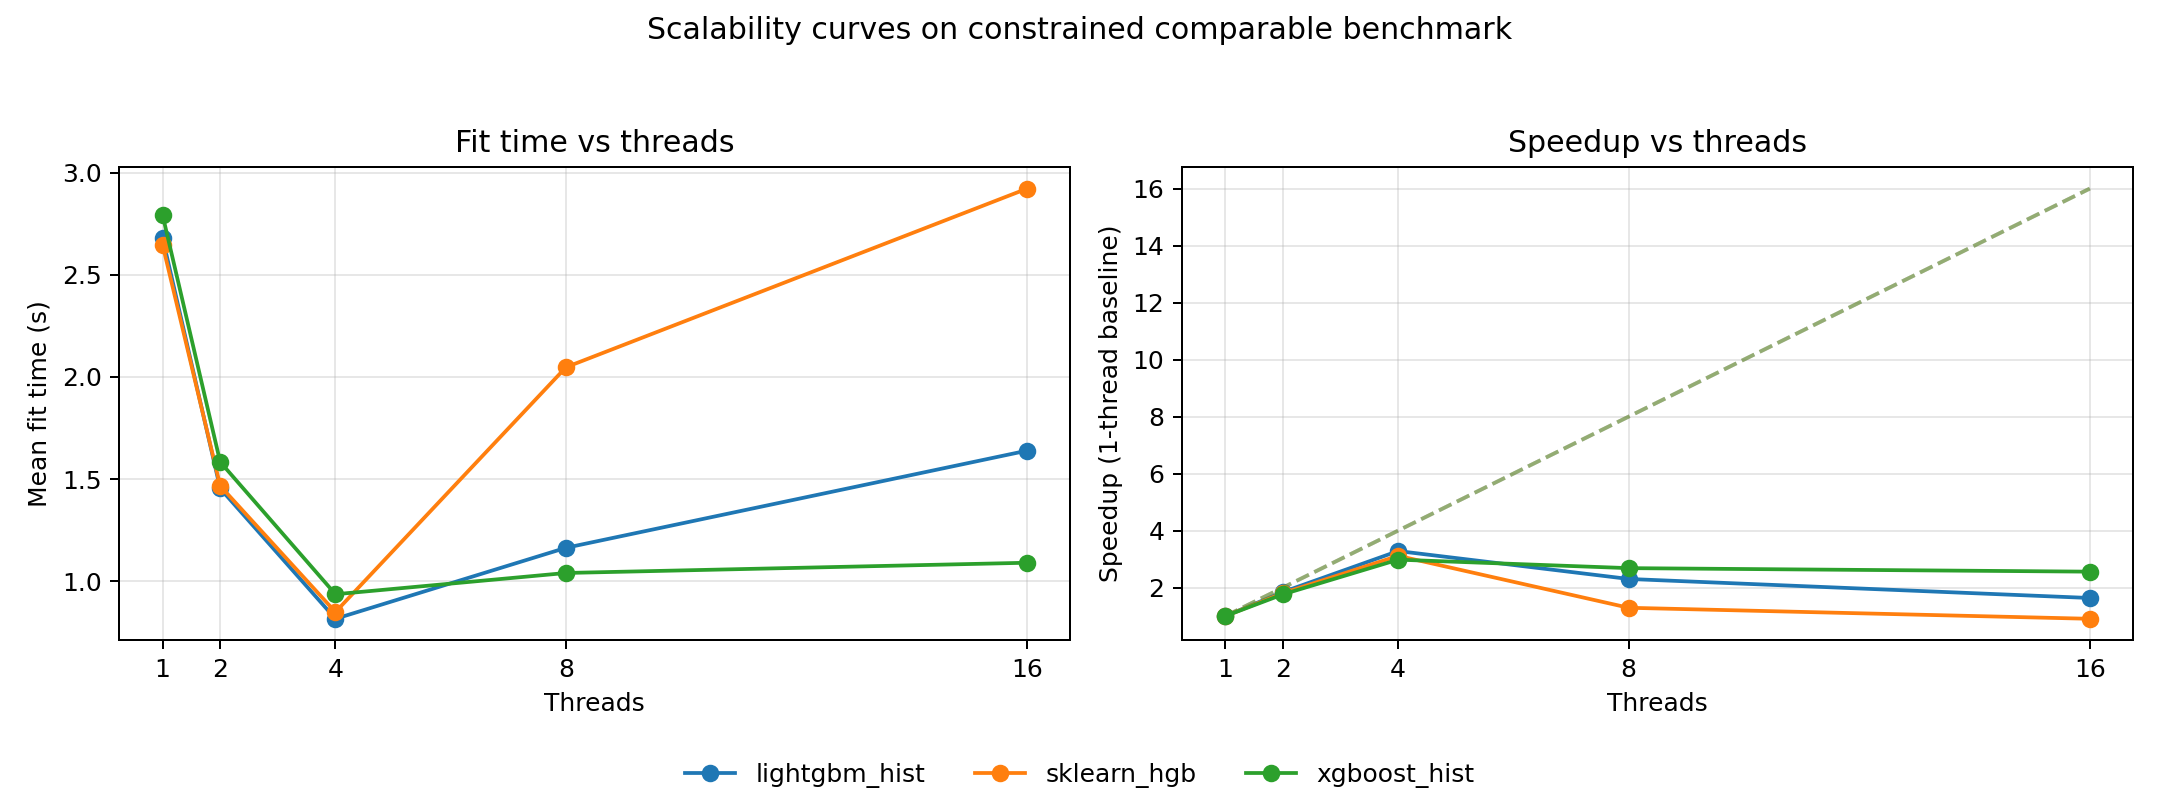
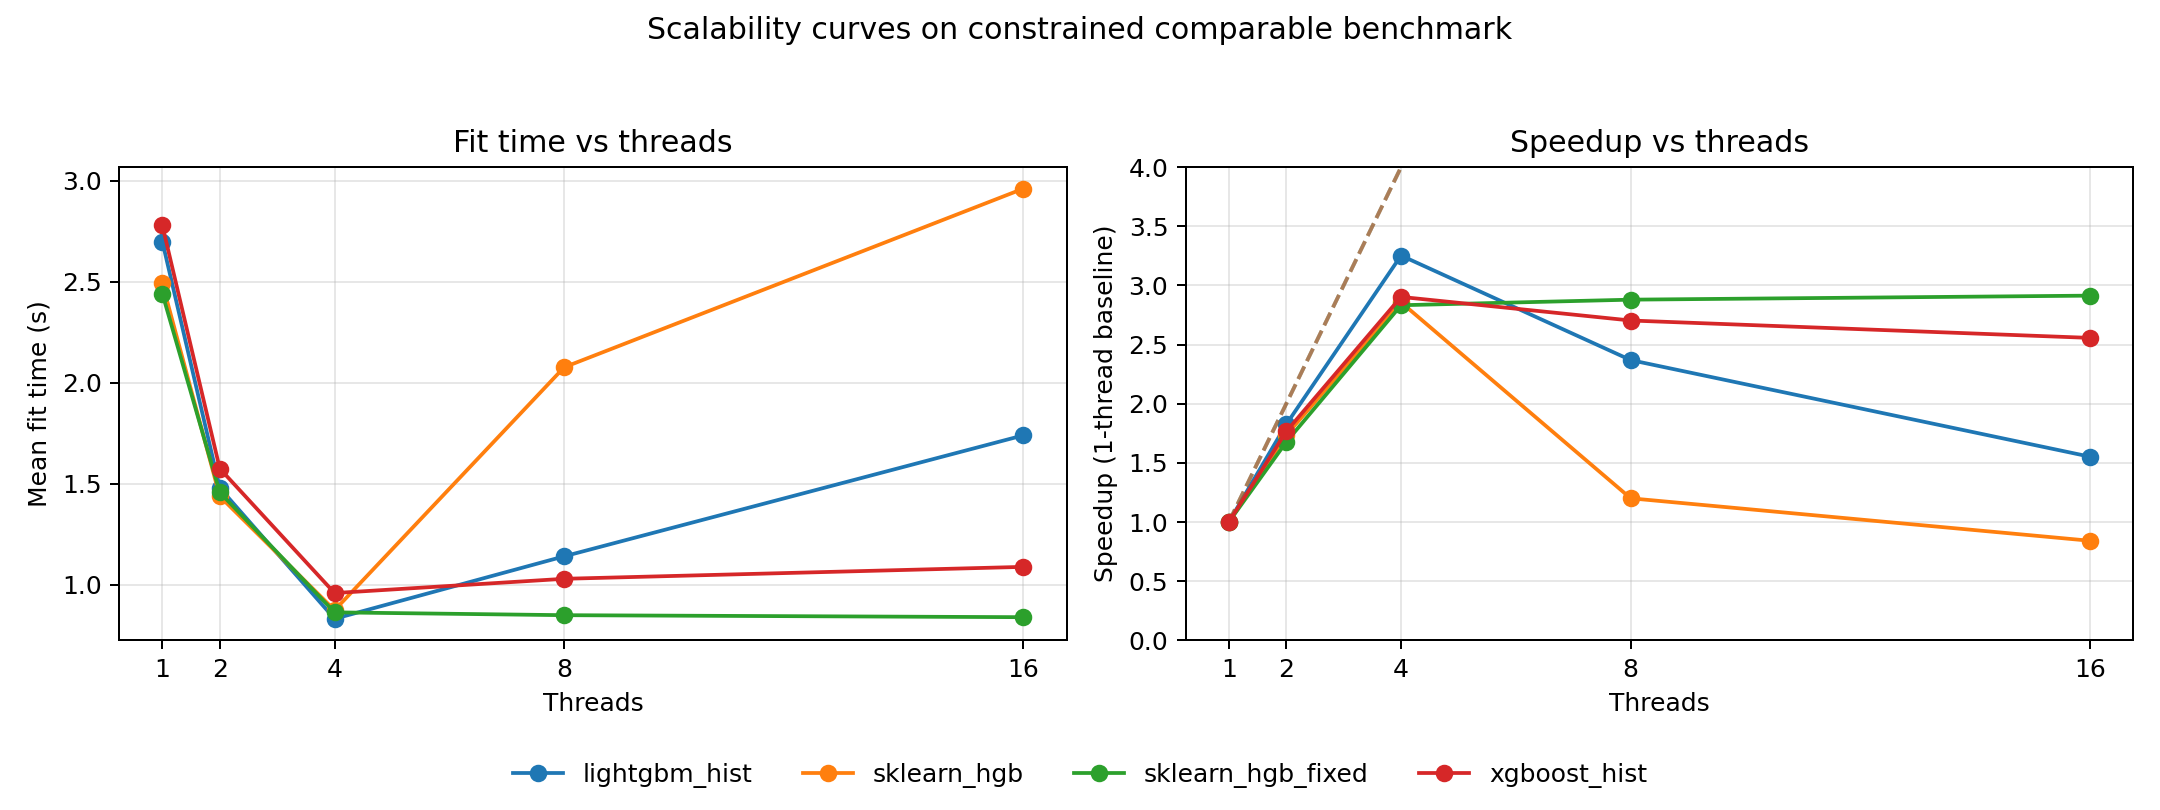
Regenerate deep-few-trees plot with capped speedup axis and fixed variant

diff --git a/artifacts/deep_few_trees_analysis.md b/artifacts/deep_few_trees_analysis.md
@@ -11,19 +11,24 @@
 - fitted-tree spread at thread=1 (reference libs): 0.0
 - all calibration candidates have zero fitted-tree spread: True
 
-## Efficiency ranking by thread (total_mean_s)
+## Efficiency ranking by thread (reference libs, total_mean_s)
 | threads | fastest | second | third |
 | --- | --- | --- | --- |
 | 1 | sklearn_hgb (2.8525s) | xgboost_hist (2.8538s) | lightgbm_hist (2.9054s) |
 | 2 | sklearn_hgb (1.5637s) | lightgbm_hist (1.5694s) | xgboost_hist (1.6412s) |
 | 4 | lightgbm_hist (0.8822s) | sklearn_hgb (0.9098s) | xgboost_hist (0.9758s) |
 
-## Scalability snapshot (fit speedup vs 1-thread)
+## Scalability snapshot (fit speedup vs 1-thread, includes fixed sklearn variant)
 | model | speedup@4 | speedup@16 |
 | --- | ---: | ---: |
-| sklearn_hgb | 3.116 | 0.906 |
-| xgboost_hist | 2.981 | 2.560 |
-| lightgbm_hist | 3.284 | 1.636 |
+| sklearn_hgb | 2.857 | 0.842 |
+| sklearn_hgb_fixed | 2.832 | 2.914 |
+| xgboost_hist | 2.903 | 2.556 |
+| lightgbm_hist | 3.252 | 1.552 |
+
+## Fixed-variant effect
+- At 16 requested threads: sklearn_hgb speedup=0.842 vs sklearn_hgb_fixed speedup=2.914.
+- The fixed variant remains near 4-thread efficiency because effective threads are capped to available cores.
 
 ## Answer
 - No. In this regime, sklearn is marginally fastest at 1 and 2 threads, but LightGBM is fastest at 4 threads (best on-core wall-clock time).